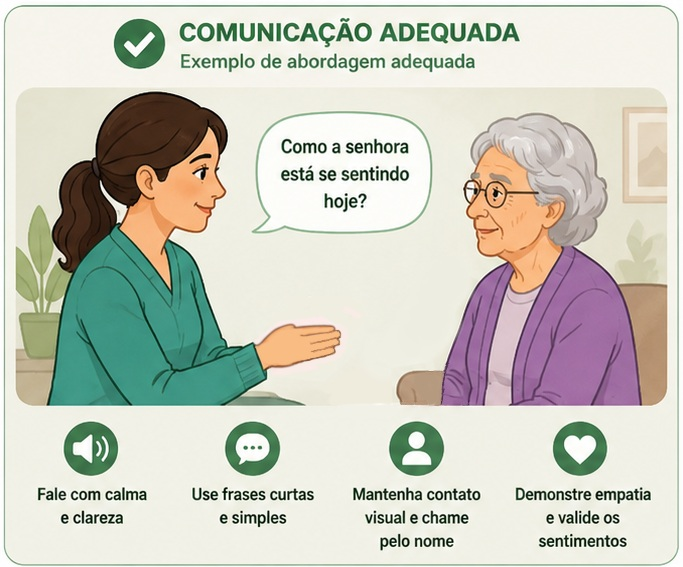
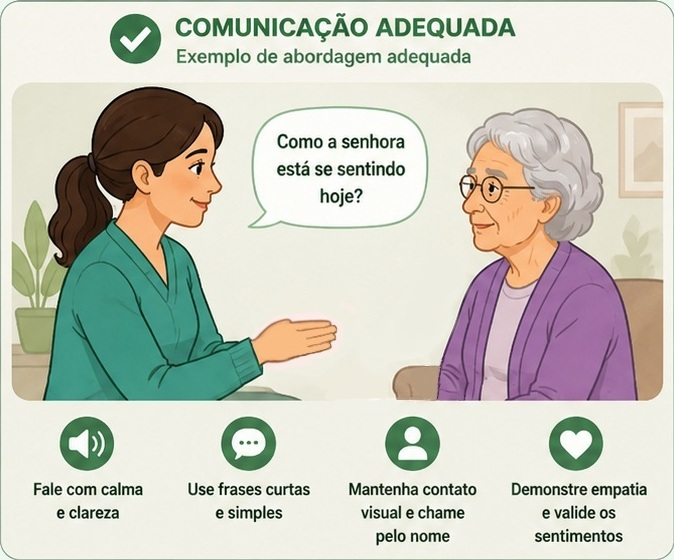
Implementação parte 11: ajuste imagens verbal

diff --git a/index.html b/index.html
@@ -224,25 +224,28 @@
     <p><strong>Cuidador:</strong> “Entendo que o senhor está preocupado. Estou aqui com o senhor. Vamos respirar um pouco e conversar.”</p>
   </div>
 
-  <img
-    src="images/manejo-verbal-1.jpg"
-    alt="Exemplo de manejo verbal adequado"
-    class="guide-image"
-    onclick="openPhoto(this)"
-  >
+  <div class="image-pair">
+
+    <img
+      src="images/manejo-verbal-1.jpg"
+      alt="Exemplo de manejo verbal adequado"
+      class="guide-image"
+      onclick="openPhoto(this)"
+    >
+
+    <img
+      src="images/manejo-verbal-2.jpg"
+      alt="Exemplo de manejo verbal inadequado"
+      class="guide-image"
+      onclick="openPhoto(this)"
+    >
+
+  </div>
+
   <p class="image-caption">
-    Exemplo de comunicação adequada.
+    Exemplos de comunicação adequada e inadequada durante o manejo verbal.
   </p>
 
-  <img
-    src="images/manejo-verbal-2.jpg"
-    alt="Exemplo de manejo verbal inadequado"
-    class="guide-image"
-    onclick="openPhoto(this)"
-  >
-  <p class="image-caption">
-    Exemplo de comunicação inadequada.
-  </p>
 </section>
 
 <section class="section red" id="nao-verbal">

diff --git a/styles.css b/styles.css
@@ -305,6 +305,11 @@ footer p {
     font-weight: bold;
   }
 
+  .image-pair {
+    grid-template-columns: 1fr;
+    gap: 12px;
+  }
+
 }
 
 .green,
@@ -437,9 +442,7 @@ footer a {
 
 .guide-image {
   width: 100%;
-  max-width: 900px;
   display: block;
-  margin: 24px auto 8px;
   border-radius: 18px;
   box-shadow: 0 4px 18px rgba(0,0,0,0.08);
   cursor: pointer;
@@ -455,6 +458,20 @@ footer a {
   color: #5d7067;
   font-size: 0.95rem;
   margin: 0 0 20px;
+}
+
+.image-pair {
+  display: grid;
+  grid-template-columns: 1fr 1fr;
+  gap: 20px;
+
+  margin-top: 32px;
+  margin-bottom: 10px;
+}
+
+.image-pair .guide-image {
+  width: 100%;
+  margin: 0;
 }
 
 /*